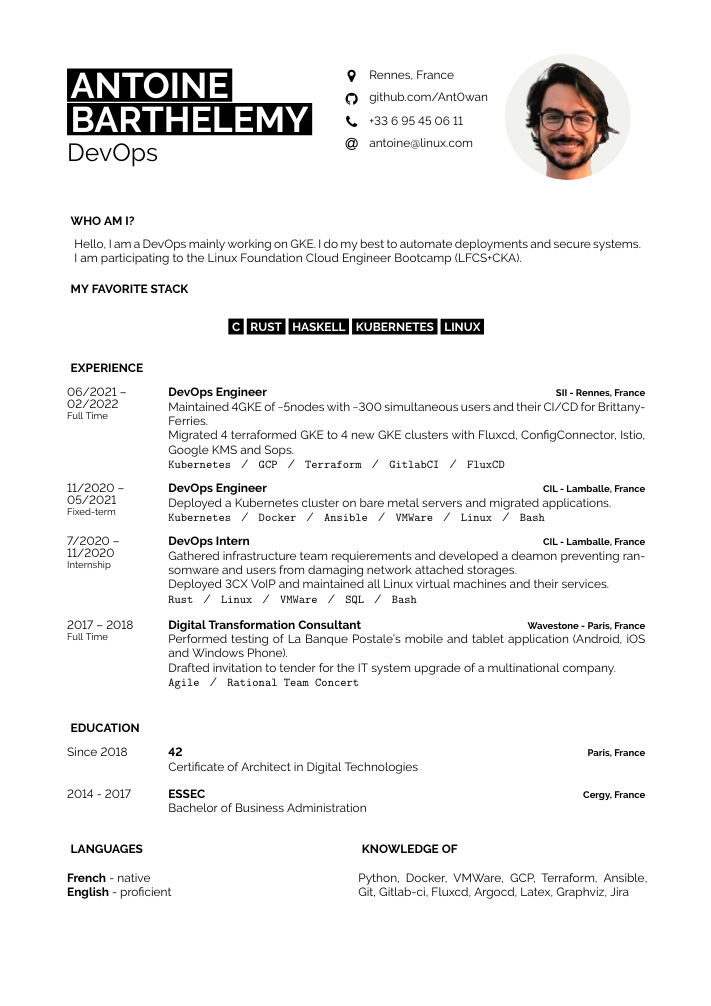
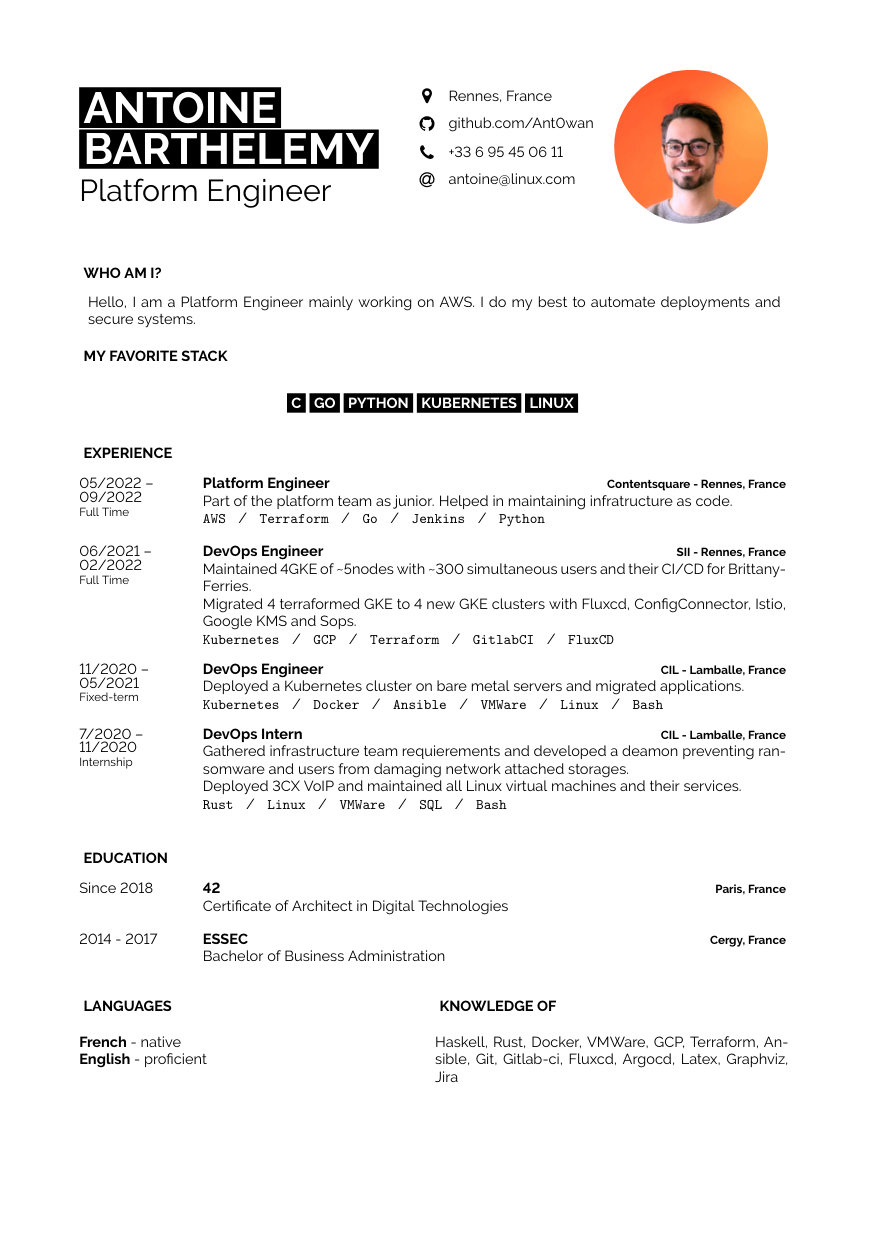
update(cv): make things fair...

diff --git a/cv/cv.tex b/cv/cv.tex
@@ -106,11 +106,6 @@ Migrated 4 terraformed GKE to 4 new GKE clusters with Fluxcd, ConfigConnector, I
 		{Gathered infrastructure team requierements and developed a deamon preventing ransomware and users from damaging network attached storages.\\
 Deployed 3CX VoIP and maintained all Linux virtual machines and their services.\\
 		\texttt{Rust}\slashsep\texttt{Linux}\slashsep\texttt{VMWare}\slashsep\texttt{SQL}\slashsep\texttt{Bash}}
-	\entry
-		{2017 -- 2018\\\footnotesize{Full Time}}
-		{Digital Transformation Consultant}
-		{Wavestone - Paris, France}
-		{Performed testing of La Banque Postale's mobile and tablet application (Android, iOS and Windows Phone).\\Drafted invitation to tender for the IT system upgrade of a multinational company.\\ \texttt{Agile}\slashsep\texttt{Rational Team Concert}}
 \end{entrylist}
 
 %----------------------------------------------------------------------------------------
